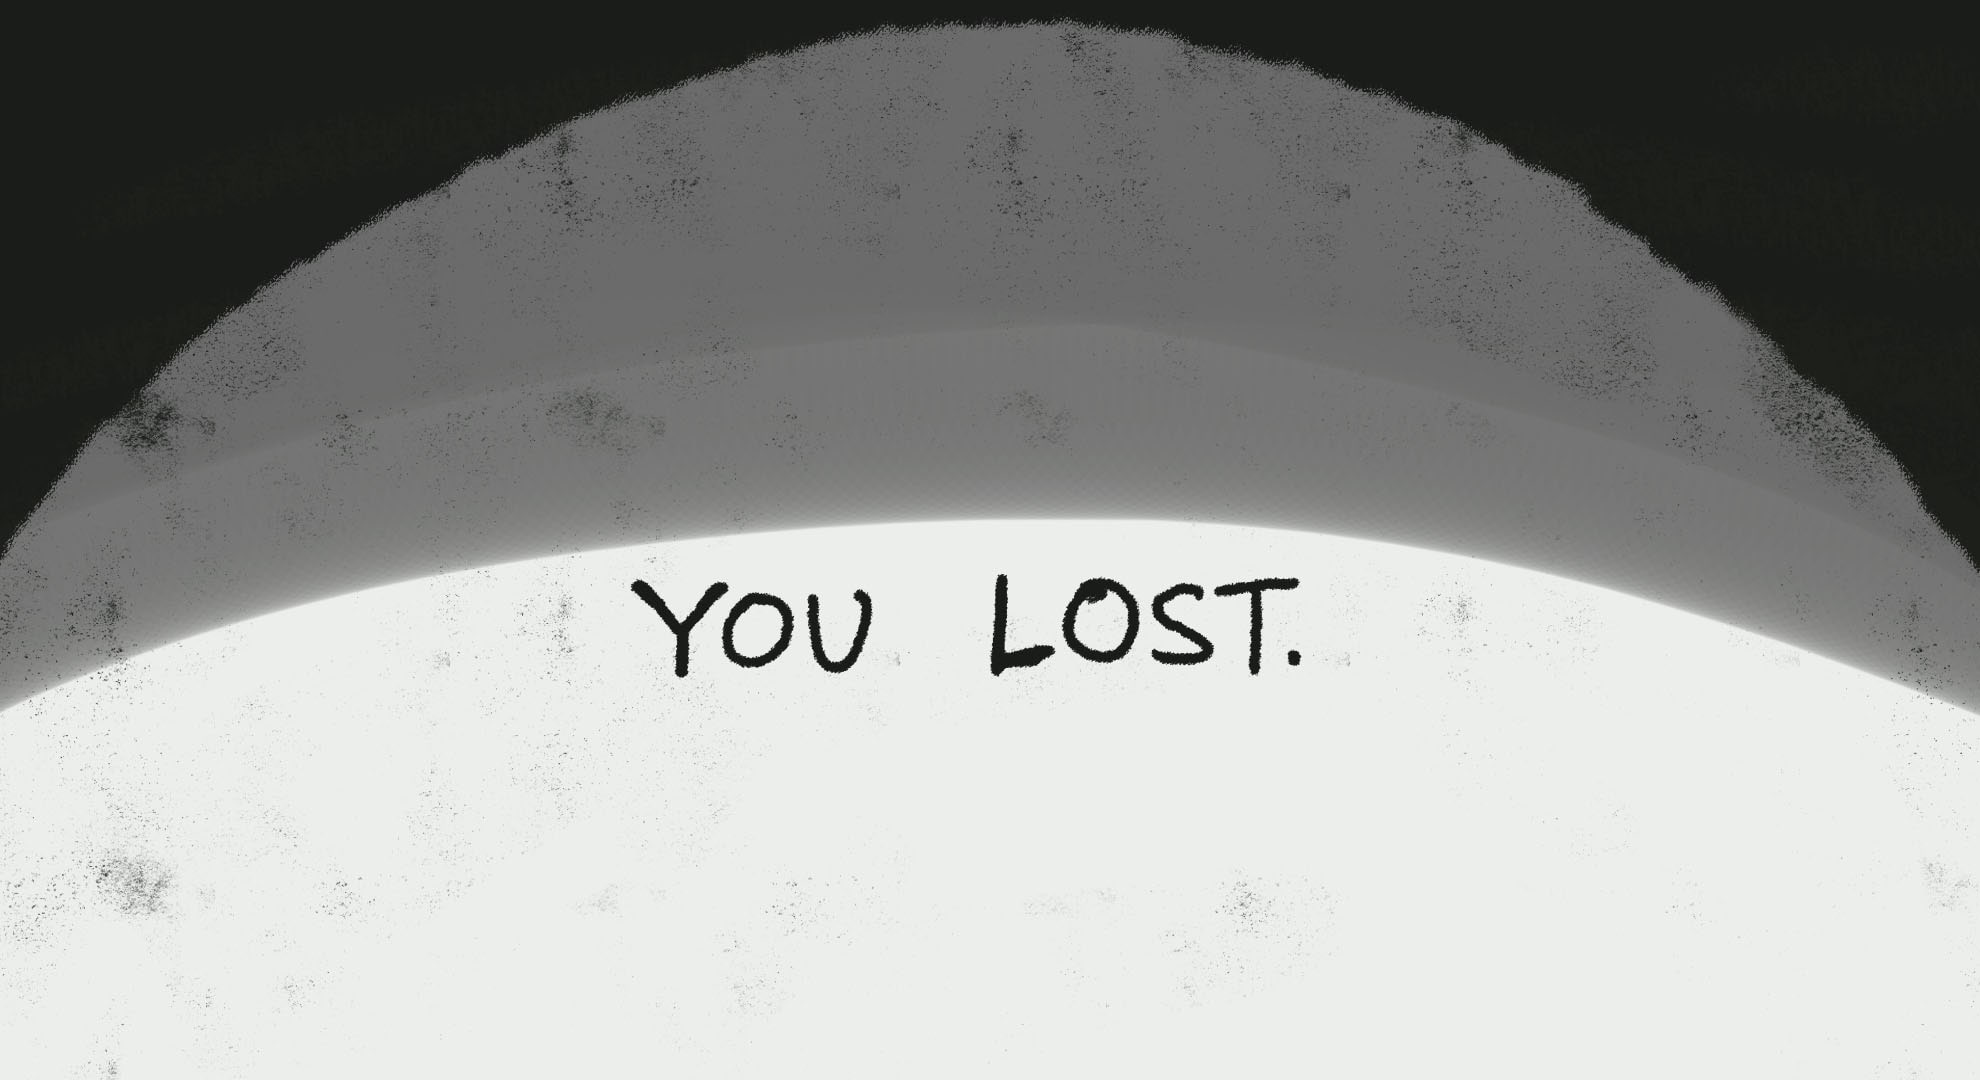
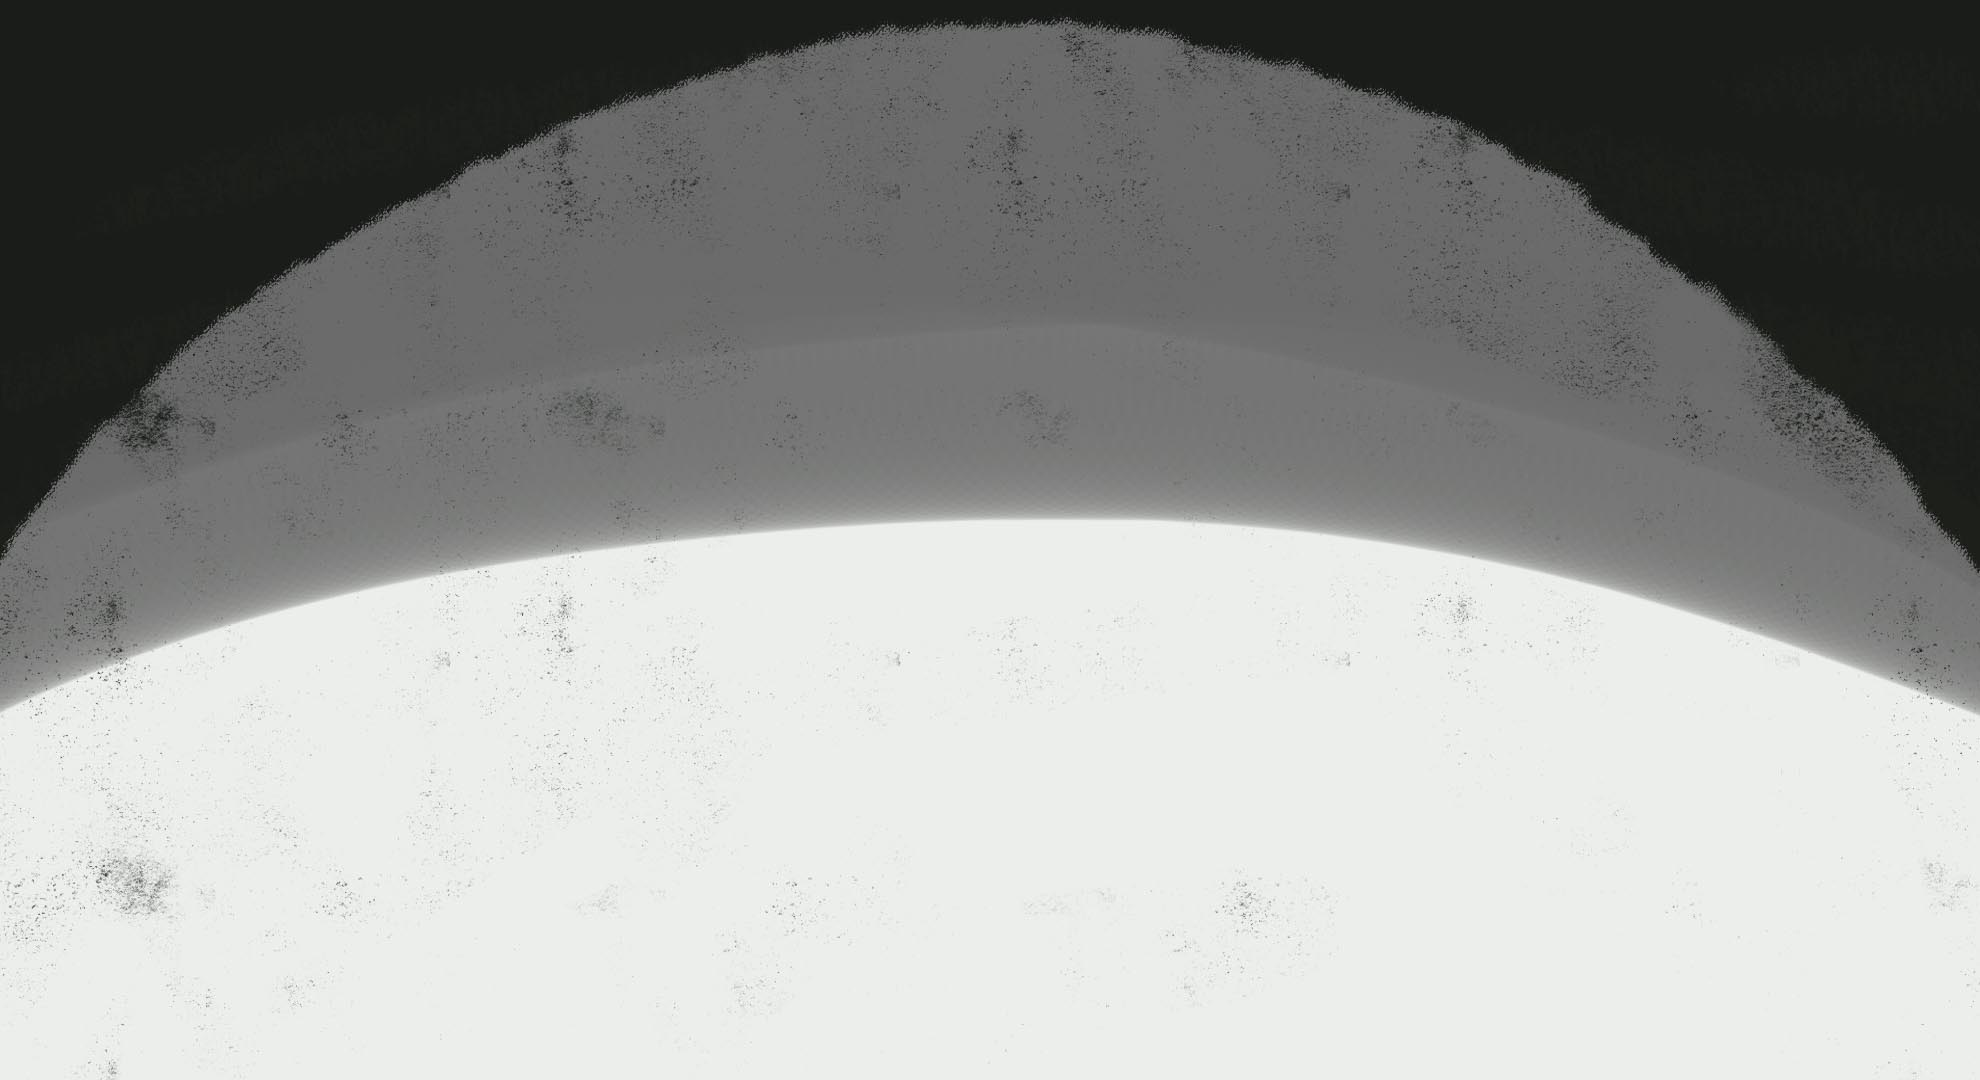
updated code

Changed region(s): [[0.4929, 0.5194, 0.6778, 0.6417], [0.3081, 0.5194, 0.4621, 0.6417]]

diff --git a/index.html b/index.html
@@ -45,7 +45,7 @@
                     <button class="icon musicIcon"><img class="musicIconImg" src="visualResources/musicIcon.png" alt="icon of a music symbol"></button> 
                 </div>
                 <div class="themeSelection">
-                    <img id="themesTitle" src="visualResources/theme.png" alt="Themes">
+                    <img id="themesTitle" src="visualResources/theme.png" alt="Themes title">
                     <!--div contains the js generated theme buttons-->
                     <div class="themeBox" id="themeBox">
                     <!--Theme buttons are generated in script.js-->
@@ -82,11 +82,11 @@
                 </div>
                 <!--div contains the hearts. Img source and alt gets updated each time player guesses wrong letter-->
                 <div class="hearts">
-                    <span><img src="visualResources/filledHeart.png" id="heart1" class="heart" ></span>
-                    <span><img src="visualResources/filledHeart.png" id="heart2" class="heart" ></span>
-                    <span><img src="visualResources/filledHeart.png" id="heart3" class="heart" ></span>
-                    <span><img src="visualResources/filledHeart.png" id="heart4" class="heart" ></span>
-                    <span><img src="visualResources/filledHeart.png" id="heart5" class="heart" ></span>
+                    <span><img src="visualResources/filledHeart.png" id="heart1" class="heart" alt="image of a heart"></span>
+                    <span><img src="visualResources/filledHeart.png" id="heart2" class="heart" alt="image of a heart"></span>
+                    <span><img src="visualResources/filledHeart.png" id="heart3" class="heart" alt="image of a heart"></span>
+                    <span><img src="visualResources/filledHeart.png" id="heart4" class="heart" alt="image of a heart"></span>
+                    <span><img src="visualResources/filledHeart.png" id="heart5" class="heart" alt="image of a heart"></span>
                 </div>
             </div>
         </section>
@@ -94,8 +94,9 @@
         <!--section that contains the game over elements-->
         <section class="container gameOverContainer">
             <div class="containerItems">
-                <img id="bobEyes" src="visualResources/bobEyesOpen.png" alt="">
+                <img id="bobEyes" src="visualResources/bobEyesOpen.png" alt="image of Bob's eyes">
                 <div class="gameOver">
+                    <img id="looseText" src="visualResources/GameOverText.png" alt="You loose text image">
                     <h4>Answer:  
                         <span id="wordReveal">
                             <!--get word from API call or JSON file-->

diff --git a/script.js b/script.js
@@ -308,6 +308,7 @@ function toggleMusic(active)
 //function displays the guessed letters or underscores based on how much the user has guessed
 function guessedWord()
 {
+    //word status word split was referenced from https://www.youtube.com/watch?v=dgvyE1sJS3Y 
     wordStatus = word.toUpperCase().split('').map(function (letter) {
         //checking for spaces
         if (letter == ' ')

diff --git a/styles.css b/styles.css
@@ -278,7 +278,12 @@
 }
 
 .gameOver {
-    margin-top: 350px;
+    margin-top: 270px;
+}
+
+#looseText {
+    height: 60px;
+    margin: 20px;
 }
 
 #playAgain {
